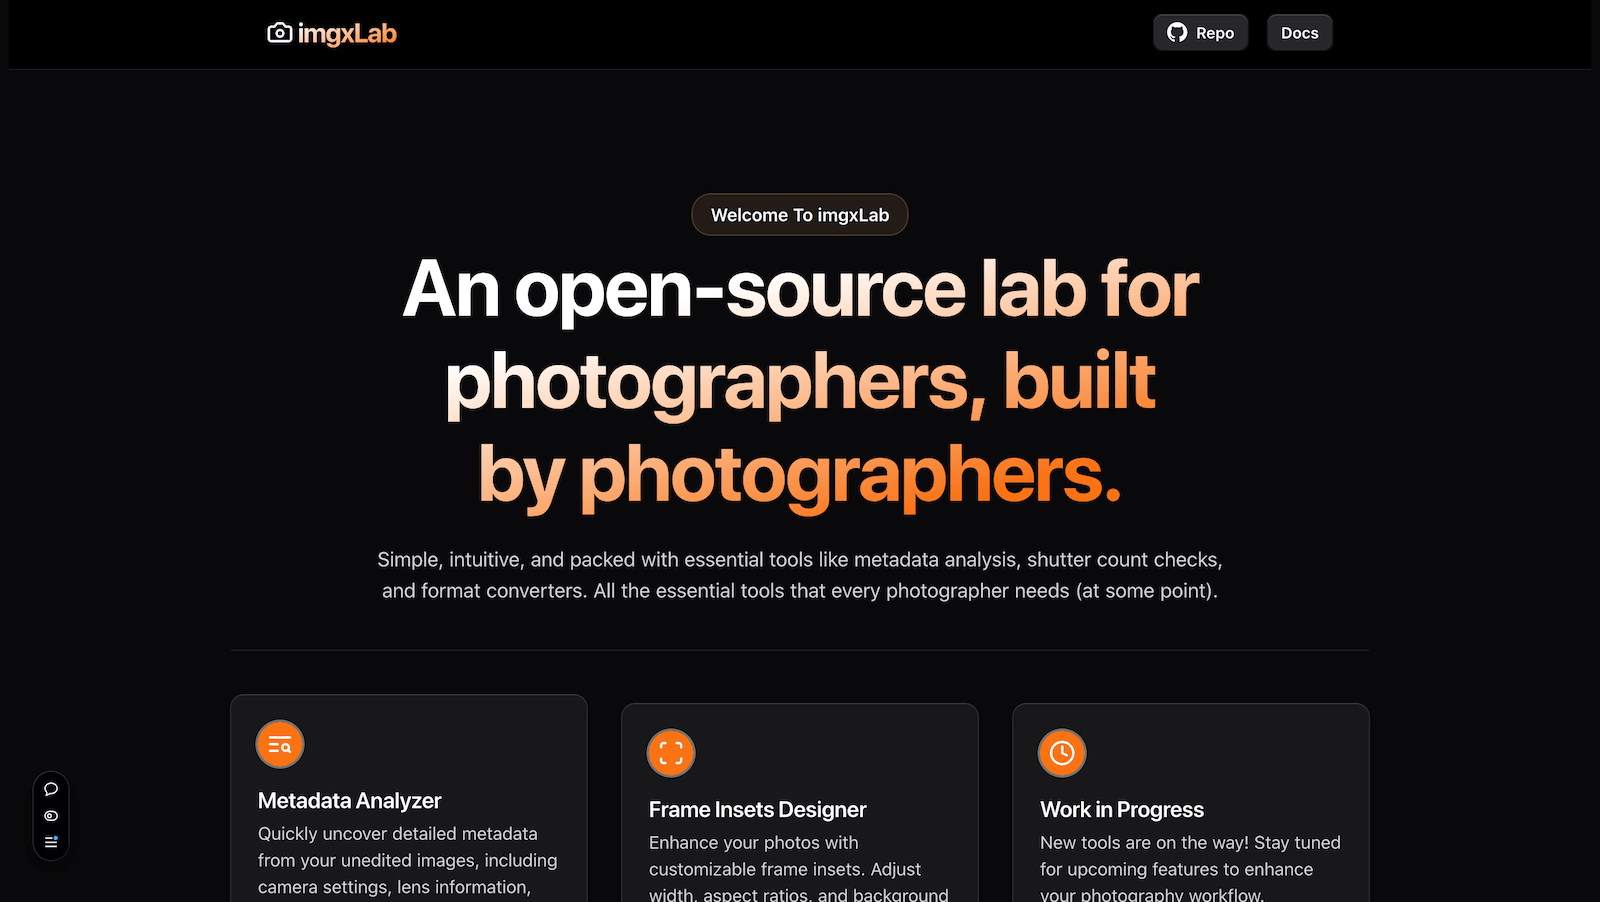
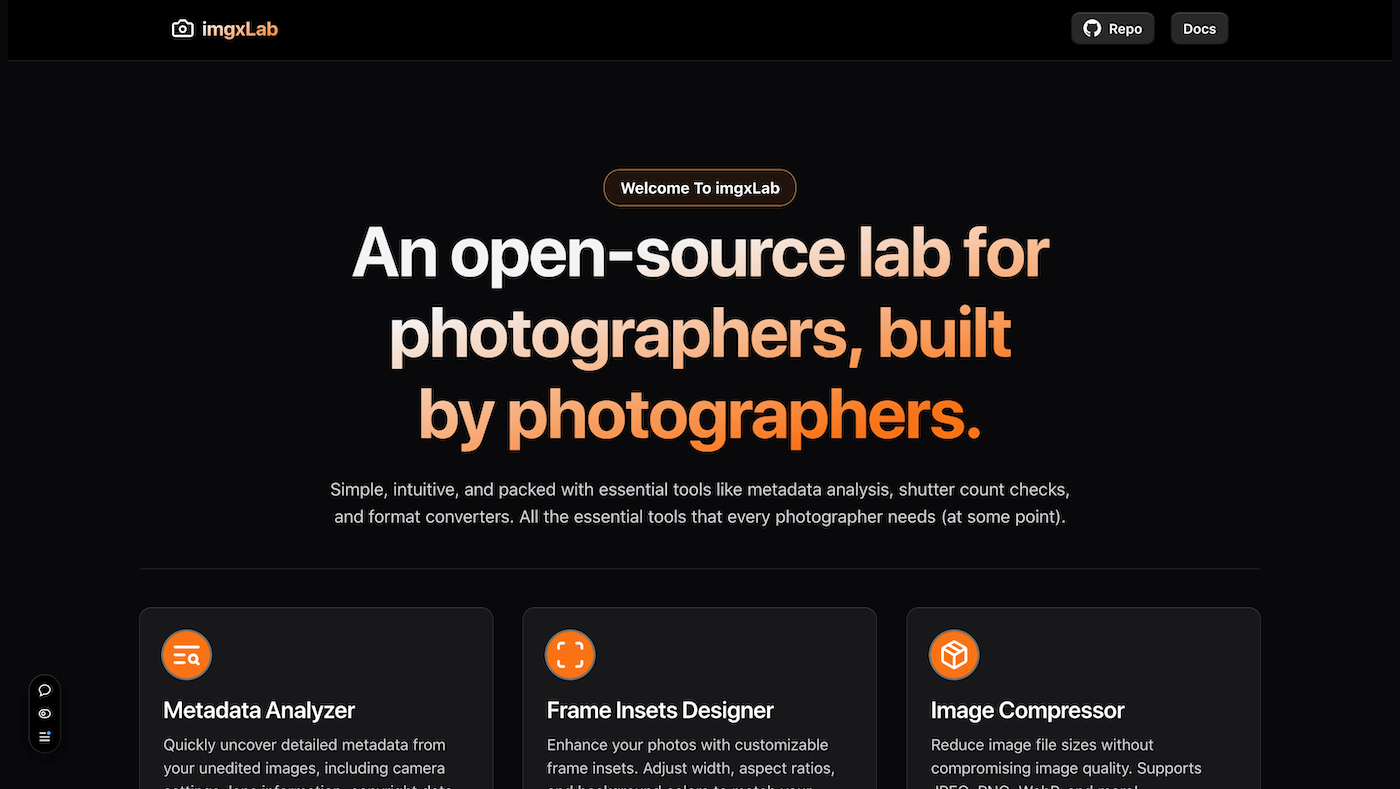
readme & hero img updated

diff --git a/README.md b/README.md
@@ -6,16 +6,56 @@ An open-source lab for photographers, built by photographers.
 
 Simple, intuitive, and packed with essential tools like metadata analysis, shutter count checks, and format converters. All the essential tools that every photographer needs (at some point).
 
-## Work in Progress.
+## Live Project
 
-The idea is to have a long term project that solves simple and common issues that photographers have.
+[https://www.imgxlab.com/](https://www.imgxlab.com/)
+
+## Features
+
+- Utilizes local storage.
+- Simple and intuitive interface.
+- Drag & drop files, or select them manually.
+- Works entirely offline, with no internet connection required.
+
+## Current Tools
+
+- Metadata Analyzer Tool: Quickly uncover detailed metadata from your unedited images, including camera settings, lens information, copyright data, and more.
+
+- Frame Insets Designer Tool: Enhance your photos with customizable frame insets. Adjust width, aspect ratios, and background colors to match your style.
+
+- Image Compressor: Efficiently compress images without compromising quality, saving storage space while maintaining visual fidelity.
+
+- WebP to PNG Converter: Easily convert images between WebP and PNG formats, allowing for broader compatibility and usage.
+
+## The Magic Behind imgxLab
+
+All processing is done locally using your browser's local storage, ensuring that your files are never shared or uploaded to any external servers. This means you can use imgxLab without an internet connection, and your images remain secure on your device.
+
+We leverage the power of React's `useState` and `useLocalStorage` hooks to provide a seamless and persistent user experience.
+
+## Privacy & Security
+
+All image processing occurs locally in your browser, utilizing local storage to save your settings and progress. This means:
+
+- No Data Sharing: Your images are never uploaded or shared with external servers.
+- Offline Capability: imgxLab works 100% offline. You can use all tools without an internet connection.
+- Secure Storage: Settings and preferences are stored securely in your browser's local storage.
+
+## Ease Of Use
+
+Not a flashy, sparkly, kira kira project. imgxLab is designed with photographers in mind. The interface is simple, intuitive, and easy to navigate, ensuring that you can access the tools you need without any hassle.
+
+## Work in Progress
+
+The goal is to create a long-term project that solves simple, common issues photographers face.
+
+imgxLab is designed to address the evolving needs of photographers. We welcome feedback, suggestions, and contributions from the community to shape its future.
 
 More tools will be added over time.
 
-## Current Tools:
+## Documentation
 
-- Metadata Analyzer Tool: Quickly uncover detailed metadata from your unedited images, including camera settings, lens information, copyright data, and more.
-- Frame Insets Designer Tool: Enhance your photos with customizable frame insets. Adjust width, aspect ratios, and background colors to match your style.
+Detailed blog posts will be added over time for each tool, covering how they were created, the code, and the reasoning behind them. You can read them [here](https://www.jorge-perez.dev/blog/).
 
 ## Getting Started
 
@@ -23,17 +63,9 @@ First, run the development server:
 
 ```bash
 npm run dev
-# or
-yarn dev
-# or
-pnpm dev
-# or
-bun dev
 ```
 
 Open [http://localhost:3000](http://localhost:3000) with your browser to see the result.
-
-You can start editing the page by modifying `app/page.tsx`. The page auto-updates as you edit the file.
 
 This project uses [`next/font`](https://nextjs.org/docs/app/building-your-application/optimizing/fonts) to automatically optimize and load [Geist](https://vercel.com/font), a new font family for Vercel.
 
